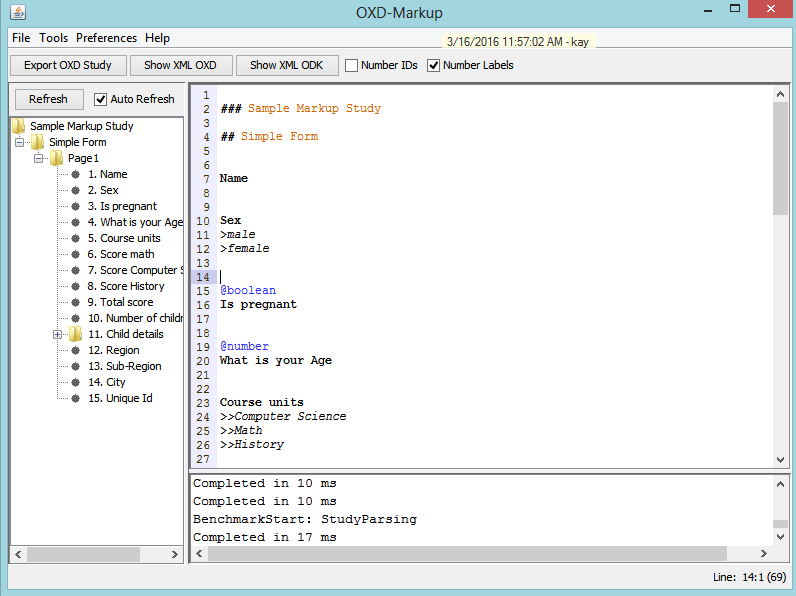
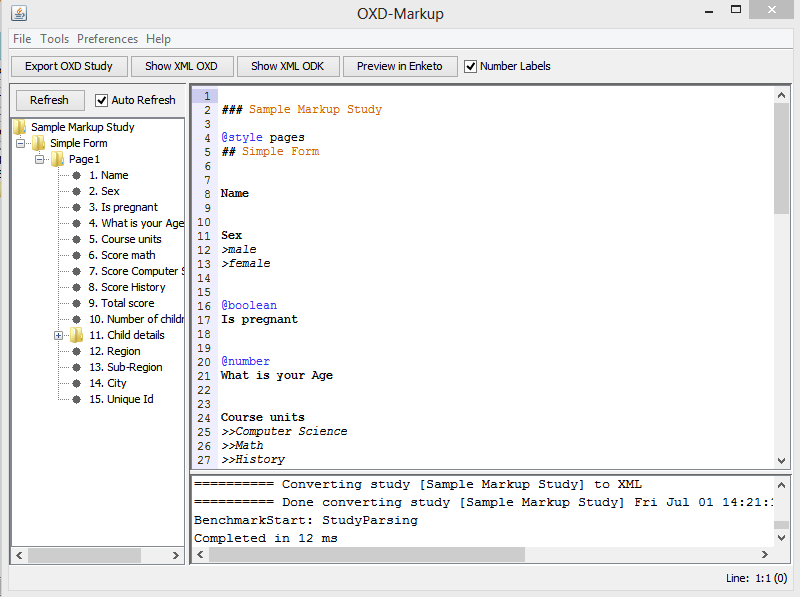
Updating documentation

Changed region(s): [[0.0, 0.0, 1.0, 1.0]]

diff --git a/README.md b/README.md
@@ -15,6 +15,7 @@ A [download](http://bit.ly/1OvDOoO) of the editor is available [here](http://bit
 ### Features:
  - Simple XPath Variable references e.g instead of `/instance/path_id` you use `$path_id`
  - On the fly simple validation of xpath
+ - Direct preview in enketo
  - Autocompletion of words using Ctrl-K
  - Easy creation of cascading selects by referencing a CSV. The CSV will data will be baked into the generated XFORM.
  - Auto-numbering of labels and IDS
@@ -22,6 +23,8 @@ A [download](http://bit.ly/1OvDOoO) of the editor is available [here](http://bit
  - If you are designing forms for OpenXData you can select the *Emulate OXD to ODK* preference to convert OXD Xpath to ODK.
    e.g `$multiselect_qn = 'option'` is converted to `selected($multiselect_qn,'option')`
  - Multiline Questions which make it easier to write markdown spanning multiple lines
+ - Support for appearance
+ - Support for form styles
 
 ### Instructions
 
@@ -61,8 +64,8 @@ multiple lines '''
 
 The above will generate a study named **Sample Study** containing one Form(Sample Form). All questions will be of type Text
 
-#### Adding pages
-To add a page use the **#> <Page.Name>** marker. The example below generates two pages ***Bio Info Page*** and ***Health Status Page***
+#### Adding pages(High Level Groups)
+To add a page use the **#> <Page.Name>** marker. The example below generates two pages ***Bio Info Page*** and ***Health Status Page***. Pages normally translate to groups. That is high level groups.
 
 ```
 ### Sample Study
@@ -87,7 +90,44 @@ Drugs taken
 
 ```
 
+You can assign appearance,skiplogic and ids to these pages
+E.g:
+```
+@appearance field-list
+@id bio_info_page
+#> Bio Info Page
+```
 
+#### Adding Groups(Inner groups with in pages)
+
+To wrap questions in a group you can wrap the them in a group tag. Only groups that have ids will be labeled with numbers in case you select the ***"number labels"*** option or ***"number ids"*** .
+E.g :
+```
+### study
+
+## form
+
+#> page one(outer group)
+
+Question one
+
+@appearance field-list
+group{ This is a group label but its optional
+   Question two
+   Question three
+}
+```
+
+You can assign appearance,skiplogic and ids to these groups too
+E.g:
+```
+@appearance field-list
+@id nested_group
+group{ This is a group label but its optional
+   Question two
+   Question three
+}
+```
 
 #### Single Select and Multiple Select
 To add options to questions you simply use `>` or `>>` for single select and multiple select respectively
@@ -227,13 +267,34 @@ E.g
 @hint This is help text for first name question
 First name
 ```
+#### Adding styles to forms
+You can add styles to forms.
+E.g Adding the theme-grid style to a form
+```
+### study
 
+@style theme-grid
+## form name
+
+#> page one
+```
 
 #### Adding Bind Attributes and Layout Attributes(e.g appearance)
 You can add layout attributes(like appearance,jr:count etc) to you questions. See below:
 
 E.g
 To make a select-one question with search
+```
+@appearance search
+Select one option
+ >option one
+ >option two
+ >option three
+ >option four
+```
+
+If you wish to add any other custom layout attribute you can use ***"@layout:..."*** syntax
+E.g The same example below is the same as the one before
 ```
 @layout:appearance search
 Select one option
@@ -257,7 +318,7 @@ OpenXdata Form Designer does not support layout and bind attributes and therefor
 
 #### Multiline Questions/Options
 
-To write questions that span multiple lines simply wrap the question text in triple quotes
+To write questions that span multiple lines simply wrap the question text in triple quotes. This makes it easy to write Markdown
 
 E.g
 ```
@@ -280,7 +341,9 @@ that spans multiple lines'''
 
 #### Numbering The Questions Automatically
 
-To number the questions automatically check the ***Number Labels checkbox*** on the toolbar. If you want the numbers to be propagated to the binding then you can also check the ***Number IDs checkbox***.
+To number the questions automatically check the ***Number Labels checkbox*** on the toolbar. If you want the numbers to be propagated to the binding then you can also check the ***Preferences -> Number IDs checkbox***.
+
+**N.B** Selecting the ***number ids option*** has one downside in that when a question is added to a form.. all following questions after that question will get a new bindings and hence might make it difficult to analyze data between two form versions.
 
 # For Power Users
 Before the markup editor was for basically generating form content(questions) but it was extended to also support adding of skip/validation/calculation logic. This comes in a little handy if you have to write complex formulas only handled by mforms that the visual form designer cannot handle. You get a little benefit of basic validation of your formulas and variables. All the formulas are based on plain XPATH syntax. But with simpler question referencing as compared to the raw XML way.
@@ -385,5 +448,35 @@ An example that calculates that total drugs taken i.e [Pain killers taken] + [An
 Total drugs taken
 ```
 
+#### Adding Appearance
+You can add appearance to any element(groups,pages and questions) using the ***"@appearance"*** attribute
+
+e.g
+````
+
+@appearance w1
+Question one
+
+@appearance field-list
+group{ This is a group header
+	Question two
+	Question three
+}
+````
+#### Explaining preferences
+  - **Number Labels:** This auto numbers all the question labels and groups(excludes groups without ids)
+  - **Number Id:** The propagates the label numbers down to the question bindings
+  - **Allow Invalid OXD ids:** The informs the edit to allow all valid XML ids. Without this option selected only lower case ids or bindings are allowed
+  - **Ensure unique Identifier Question:** This checks the a form has a unique identifier exists in a form. This question will generate a unique id that will be explicitly unique to any form instance or data. Uncheck this option to turn off the feature
+##### ODK Specific
+  - **Emulate ODK to OXD:** This makes the behave as if its converting oxd forms to ODK. It makes extra effort to ensure that oxd xpath retains the semantics when converted to ODK. especially expressions that contain multi select and single select references
+  - **Automatically add meta InstanceID:** This auto add the meta/instanceID element to the form as required by some javarosa clients and servers
+
+##### Openxdata specific
+  - **Generate Layout:** Generates layout xml when you export  form
+  - **Store extra attributes in comments:** OpenXdata Form Designer does not support layout and bind attributes and therefore these attributes will disappear once you load the form into the openxdata form designer. To work around this, in the editor select the ***Store extra attributes in Comment***  preference then these attributes will be embedded into the hint section of a question.
+
 [main_window]: https://github.com/kayr/xform-markup-editor/blob/master/images/main_window.PNG?raw=true
 [show_xml]: https://github.com/kayr/xform-markup-editor/blob/master/images/show_xml.PNG?raw=true
+
+
